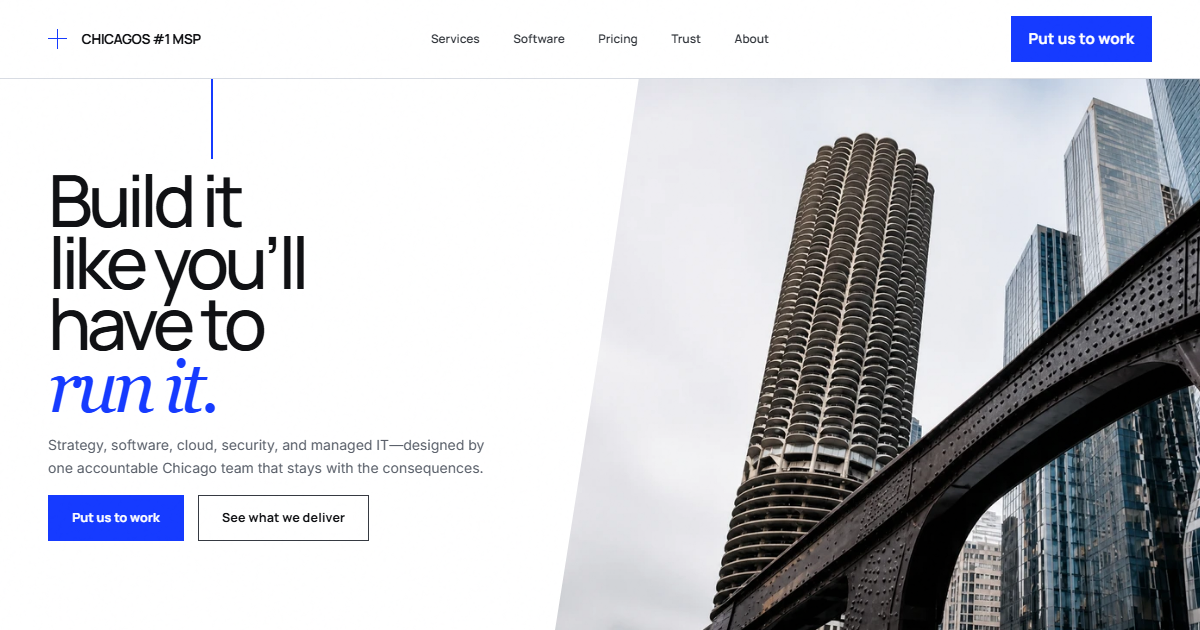
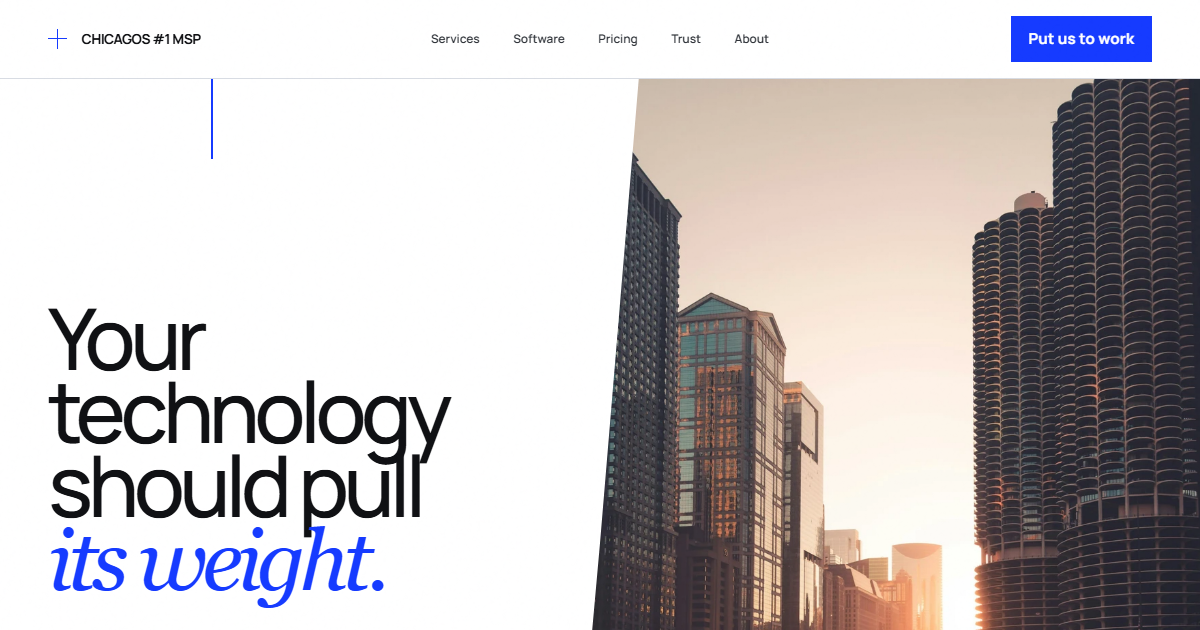
1

diff --git a/src/styles/global.css b/src/styles/global.css
@@ -3950,9 +3950,9 @@ body.editorial-site .mobile-menu nav > a:not(.button) {
 }
 
 .editorial-hero h1 {
-  max-width: 7ch;
+  max-width: 8.4ch;
   margin-bottom: 2rem;
-  font-size: clamp(5rem, 7.75vw, 8rem);
+  font-size: clamp(4.8rem, 7.1vw, 7.45rem);
   line-height: 0.86;
   text-wrap: balance;
 }
@@ -3991,7 +3991,7 @@ body.editorial-site .mobile-menu nav > a:not(.button) {
 
 .editorial-hero__media img {
   object-fit: cover;
-  object-position: 53% center;
+  object-position: 50% 52%;
   animation: editorial-drift 18s ease-in-out infinite alternate;
 }
 
@@ -4125,7 +4125,7 @@ body.editorial-site .mobile-menu nav > a:not(.button) {
 
 .editorial-handoff__media img {
   object-fit: cover;
-  object-position: 53% center;
+  object-position: 48% center;
   transition: transform 800ms cubic-bezier(0.2, 0.75, 0.25, 1);
 }
 
@@ -4364,7 +4364,7 @@ body.editorial-site .mobile-menu nav > a:not(.button) {
 
 .editorial-cta__media img {
   object-fit: cover;
-  object-position: 40% center;
+  object-position: 56% center;
 }
 
 .editorial-cta__inner {
@@ -4454,7 +4454,7 @@ body.editorial-site .site-footer__bottom {
   }
 
   .editorial-hero h1 {
-    font-size: clamp(4.7rem, 7.5vw, 6.8rem);
+    font-size: clamp(4.5rem, 6.9vw, 6.4rem);
   }
 
   .editorial-handoff__inner {
@@ -4547,9 +4547,9 @@ body.editorial-site .site-footer__bottom {
   }
 
   .editorial-hero h1 {
-    max-width: 7.4ch;
+    max-width: 8.4ch;
     margin-bottom: 1.5rem;
-    font-size: clamp(4rem, 18vw, 5.3rem);
+    font-size: clamp(3.7rem, 16vw, 4.8rem);
   }
 
   .editorial-hero__copy > p {
@@ -4574,7 +4574,7 @@ body.editorial-site .site-footer__bottom {
   }
 
   .editorial-hero__media img {
-    object-position: 57% center;
+    object-position: 51% 56%;
   }
 
   .editorial-thread {
@@ -4616,7 +4616,7 @@ body.editorial-site .site-footer__bottom {
   }
 
   .editorial-handoff__media img {
-    object-position: 50% center;
+    object-position: 47% center;
   }
 
   .editorial-services {
@@ -4718,7 +4718,7 @@ body.editorial-site .site-footer__bottom {
   }
 
   .editorial-cta__media img {
-    object-position: 34% center;
+    object-position: 58% center;
   }
 
   .editorial-cta__inner {
@@ -4737,7 +4737,7 @@ body.editorial-site .site-footer__bottom {
 
 @media (max-width: 430px) {
   .editorial-hero h1 {
-    font-size: clamp(3.6rem, 17vw, 4.45rem);
+    font-size: clamp(3.35rem, 15.5vw, 4.1rem);
   }
 
   .editorial-hero__media {

diff --git a/e2e/site.spec.ts b/e2e/site.spec.ts
@@ -35,13 +35,26 @@ test.describe('premium public site', () => {
     await page.goto('./');
     await expect(
       page.getByRole('heading', {
-        name: 'Build it like you’ll have to run it.',
+        name: 'Your technology should pull its weight.',
       })
     ).toBeVisible();
     await expect(
-      page.getByRole('link', { name: 'Put us to work' }).first()
+      page.getByRole('link', { name: 'Bring us the problem' }).first()
     ).toBeVisible();
     await expect(page.locator('.editorial-hero__media img')).toBeVisible();
+
+    const landingImages = page.locator(
+      '.editorial-hero__media img, .editorial-handoff__media img, .editorial-cta__media img'
+    );
+    await expect(landingImages).toHaveCount(3);
+    for (const image of await landingImages.all()) {
+      await image.evaluate(element =>
+        element.scrollIntoView({ block: 'center' })
+      );
+      await expect
+        .poll(() => image.evaluate(element => element.naturalWidth))
+        .toBeGreaterThan(0);
+    }
 
     const overflow = await page.evaluate(
       () =>

diff --git a/docs/photography-sources.md b/docs/photography-sources.md
@@ -1,0 +1,14 @@
+# Photography sources
+
+The landing page uses downloaded original photographs from Unsplash. The source
+files remain in `src/assets/`; Astro creates the smaller responsive variants
+used by browsers during the production build.
+
+| Page role              | Local source                                 | Photographer        | Original dimensions | Source                                                                                                                     |
+| ---------------------- | -------------------------------------------- | ------------------- | ------------------: | -------------------------------------------------------------------------------------------------------------------------- |
+| Hero                   | `chicago-riverwalk-sunset-max-bender.jpg`    | Max Bender          |         3268 × 4896 | [Chicago Riverwalk at sunset](https://unsplash.com/photos/city-buildings-during-night-time-3KcQcZWu0Ak)                    |
+| Services / handoff     | `chicago-loop-train-juan-pablo-valdivia.jpg` | Juan Pablo Valdivia |         5152 × 7728 | [Chicago L in the Loop](https://unsplash.com/photos/elevated-train-passes-by-city-buildings-MpWzbpJFBrU)                   |
+| Closing call to action | `chicago-fog-aerial-venti-views.jpg`         | Venti Views         |         4815 × 3210 | [Chicago skyline in fog at night](https://unsplash.com/photos/aerial-view-of-city-buildings-during-night-time-vahwUn0Uh0E) |
+
+All three source pages identify the photographs as free to use under the
+[Unsplash License](https://unsplash.com/license).
